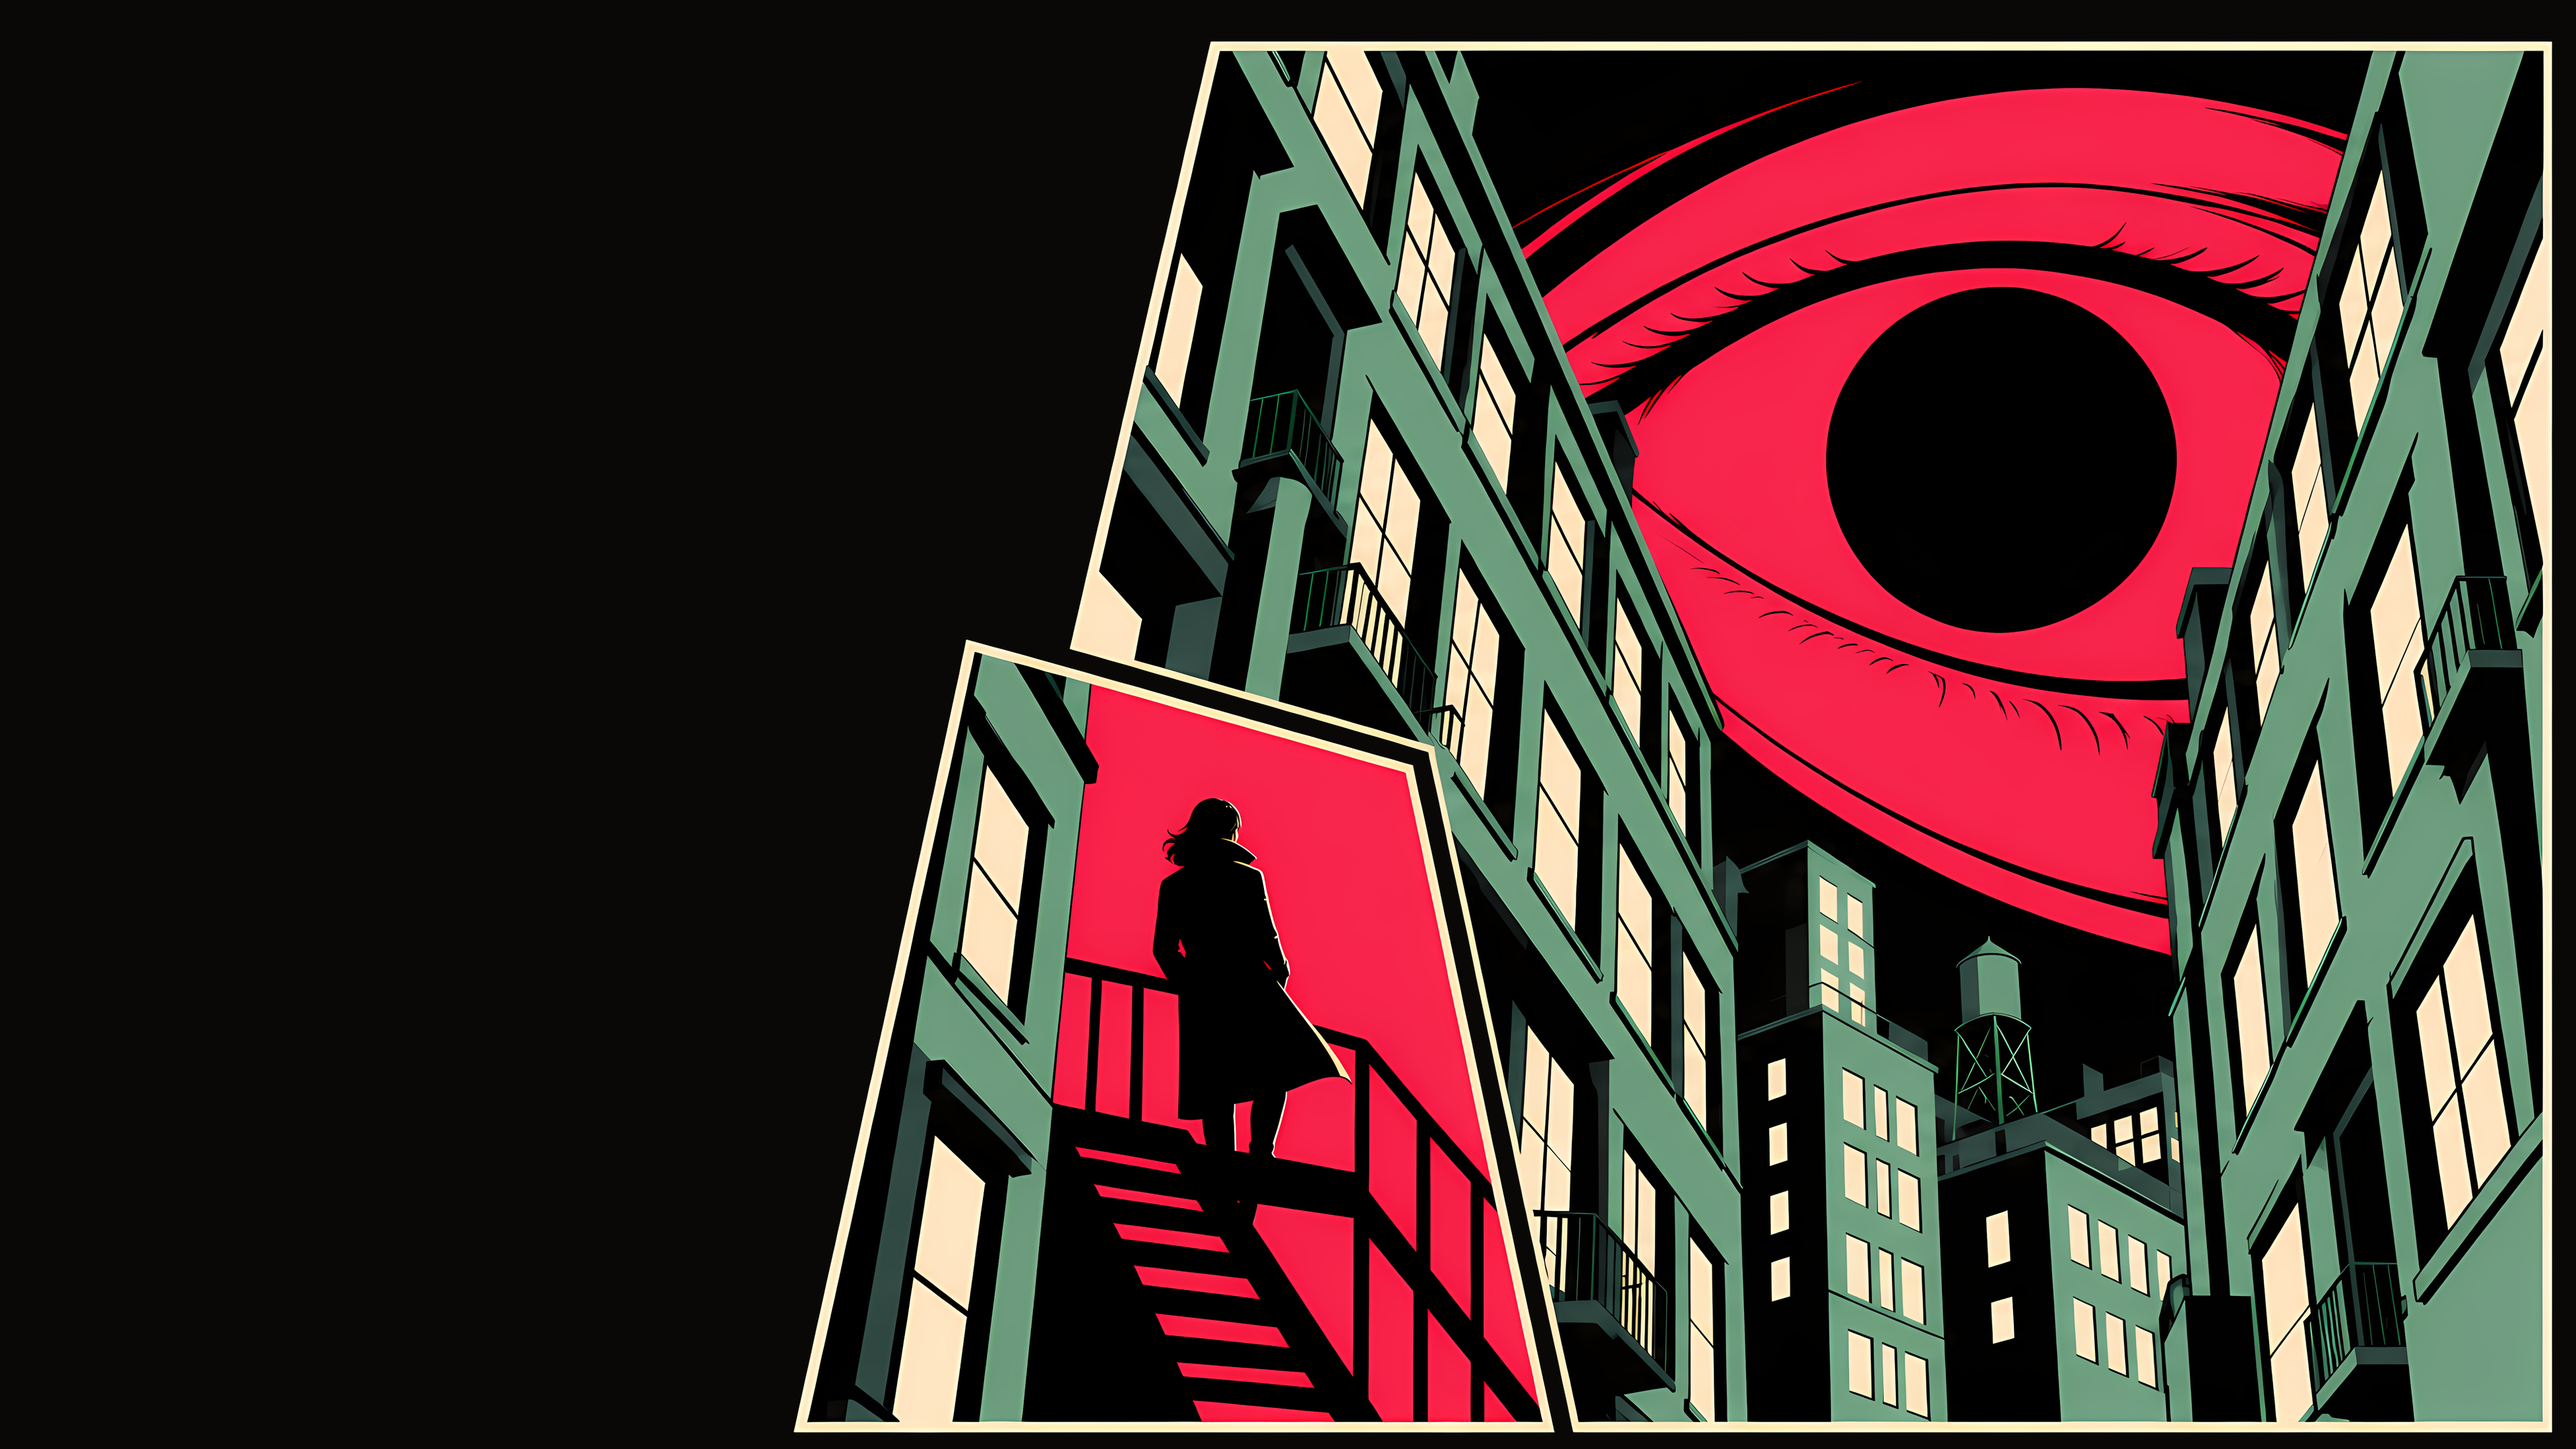
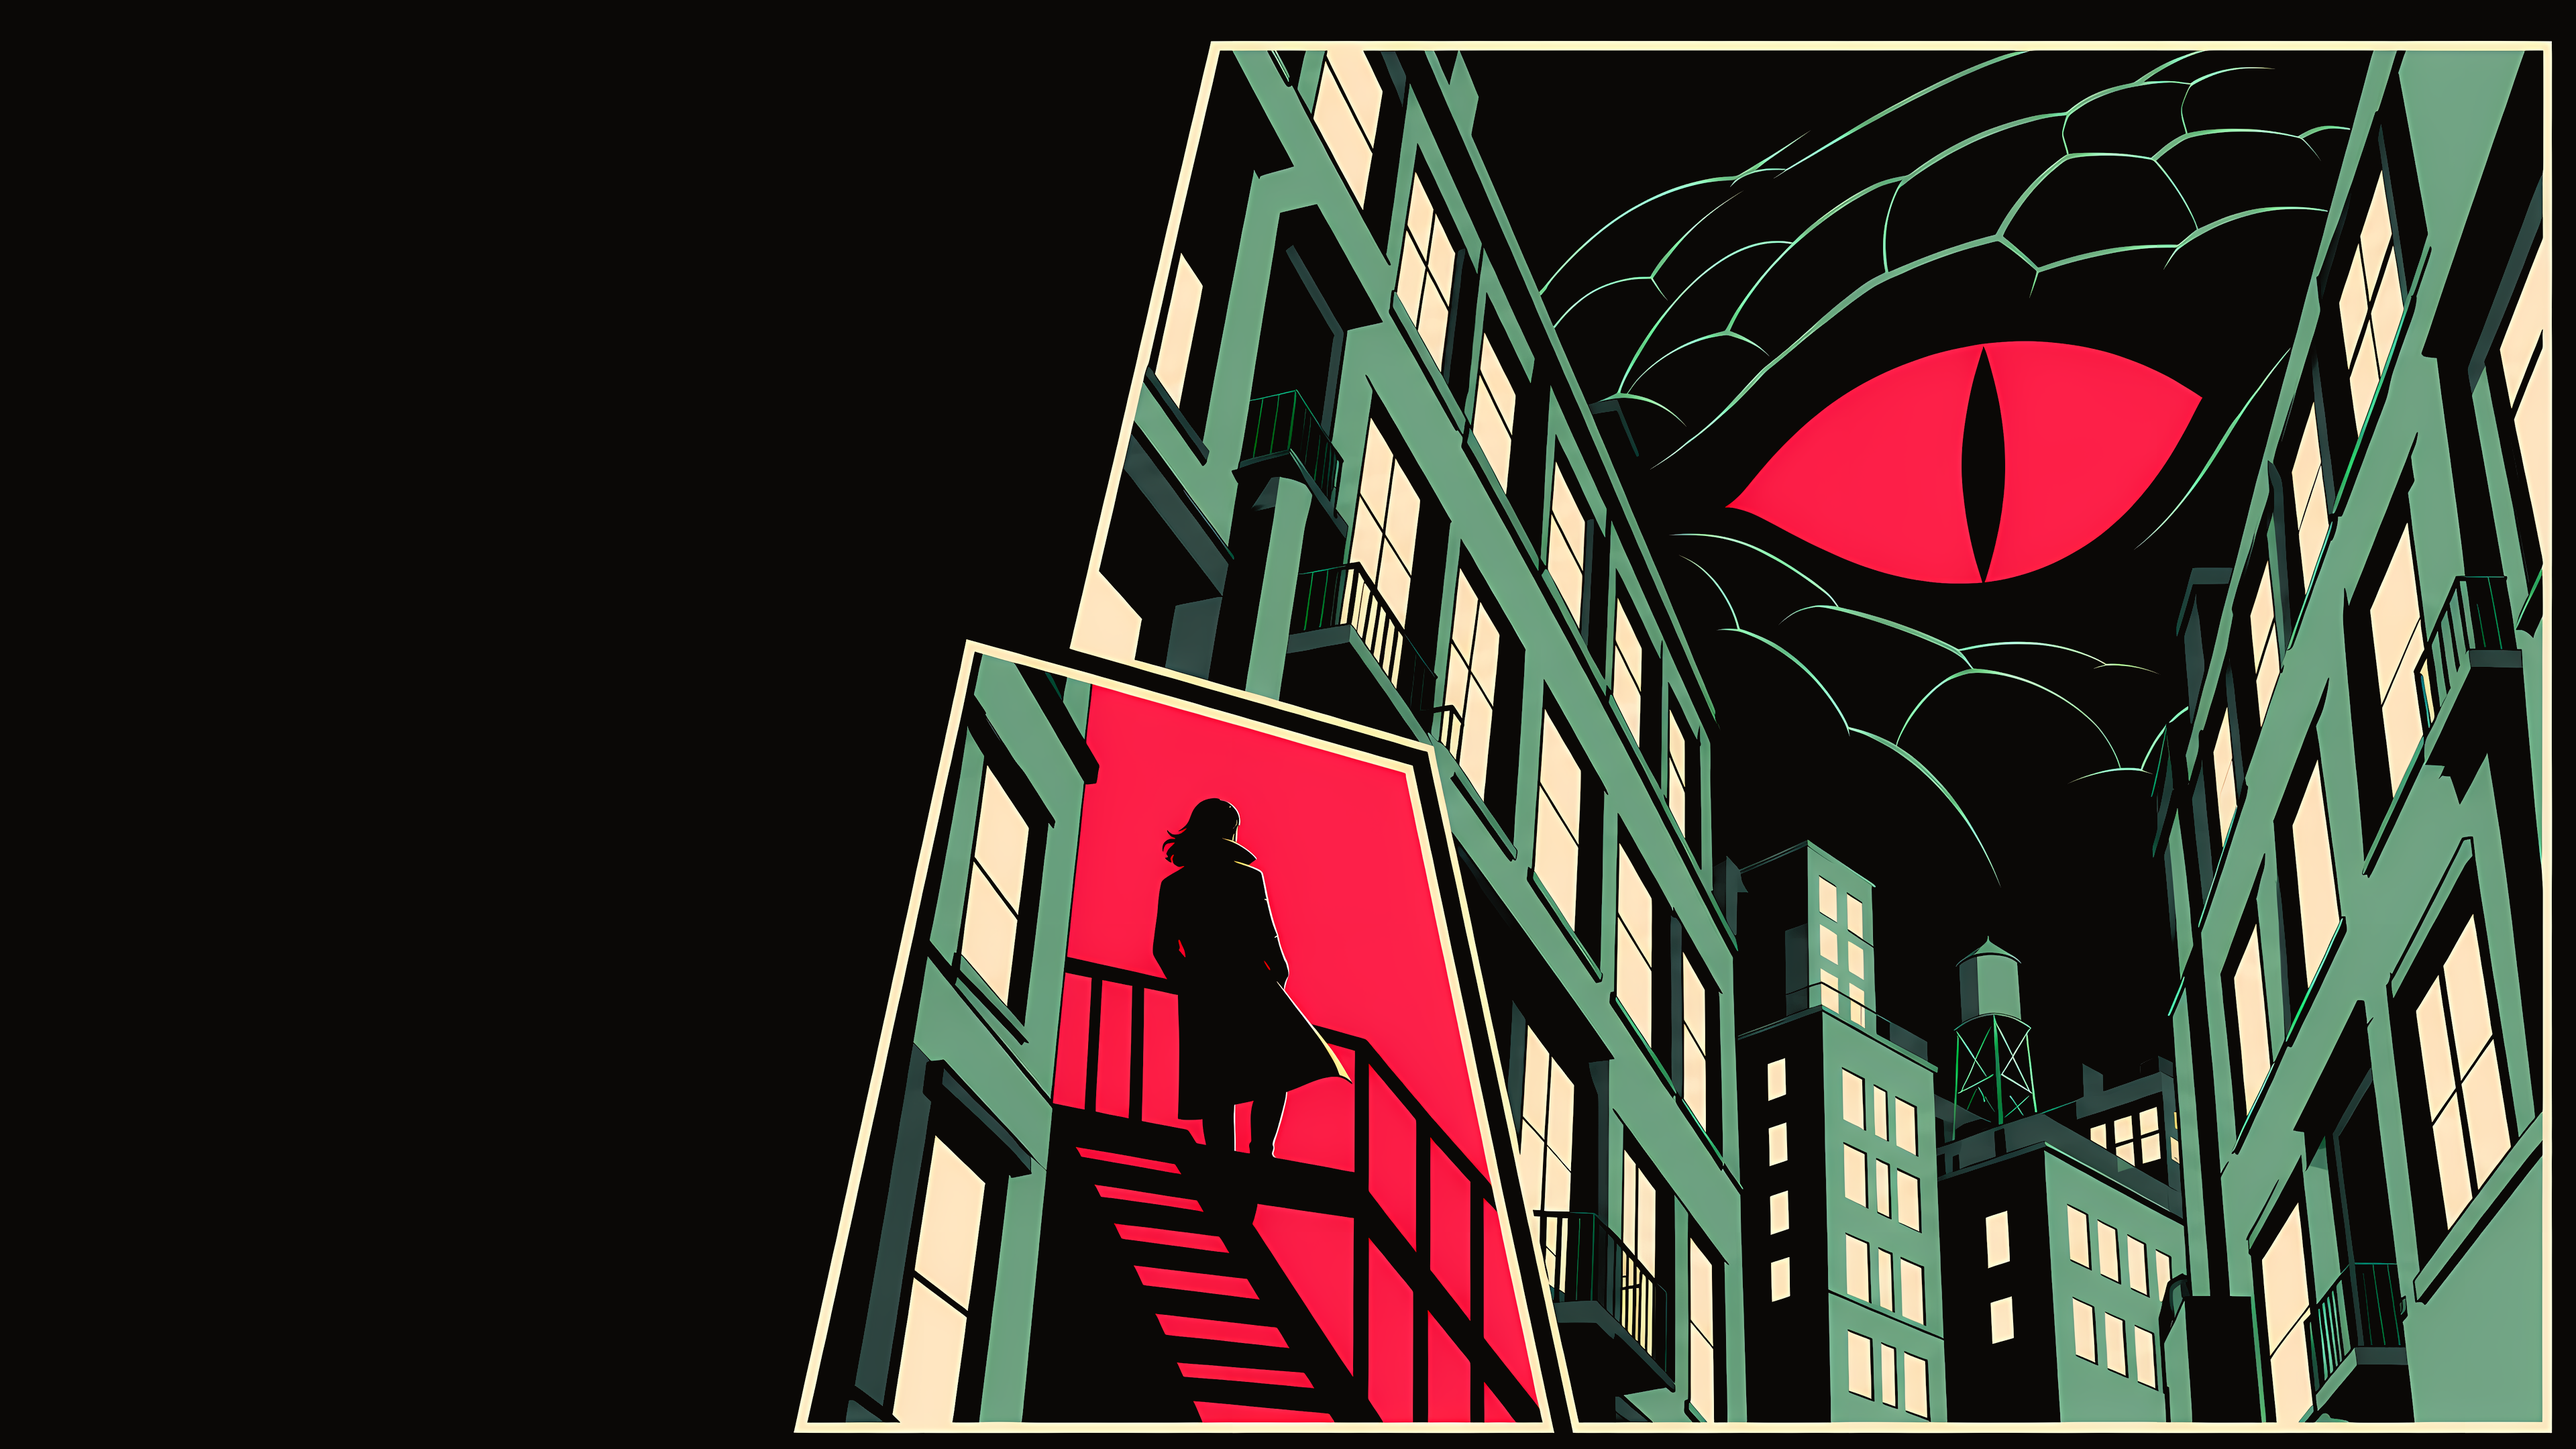
Replace the Eye wall with a monster's eye
The giant eye now belongs to a colossal creature drawn in black with
sage rim lines, its single pink slit eye the only colour, so it reads
as the monster rather than a human eye. README and SOURCES updated.

diff --git a/backgrounds/SOURCES.md b/backgrounds/SOURCES.md
@@ -10,6 +10,6 @@ The figure and creatures are original to this theme.
 | 02-tower.png | A water tower against the moon in one tall panel; a rooftop railing and the figure in two small panels |
 | 03-overpass.png | Three stacked strips: street lamps, a huge clawed foot among overpass columns, the figure walking away |
 | 04-crack.png | One panel split by a jagged crack: a tall building above, the figure on the street below |
-| 05-eye.png | A giant pink eye over the street; the figure on a fire escape in a small panel |
+| 05-eye.png | A colossal black creature fills the sky, only its pink slit eye lit, over the street; the figure on a fire escape in a small panel |
 | 06-blinds.png | An office at night in four tall panels; a scaly monster passes behind the blinds against a pink sky |
 | 07-hand.png | A clawed hand crossing the moon, its claws breaking into the panel below, where the figure stands on a rooftop |

diff --git a/README.md b/README.md
@@ -39,7 +39,7 @@ All wallpapers are 3840x2160, generated with AI (Codex image generation) in a fl
   </tr>
   <tr>
     <td><img src="backgrounds/04-crack.png" alt="A panel split by a jagged crack, with a tall building above and a woman on the street below"><br><sub>04 Crack</sub></td>
-    <td><img src="backgrounds/05-eye.png" alt="A giant pink eye over a city street, with a small panel of a woman on a fire escape"><br><sub>05 Eye</sub></td>
+    <td><img src="backgrounds/05-eye.png" alt="A colossal black creature filling the night sky, its single pink slit eye glowing over a city street, with a small panel of a woman on a fire escape"><br><sub>05 Eye</sub></td>
     <td><img src="backgrounds/06-blinds.png" alt="Four tall panels of an office at night, a woman at a window with a scaly monster passing outside against a pink sky"><br><sub>06 Blinds</sub></td>
   </tr>
   <tr>
